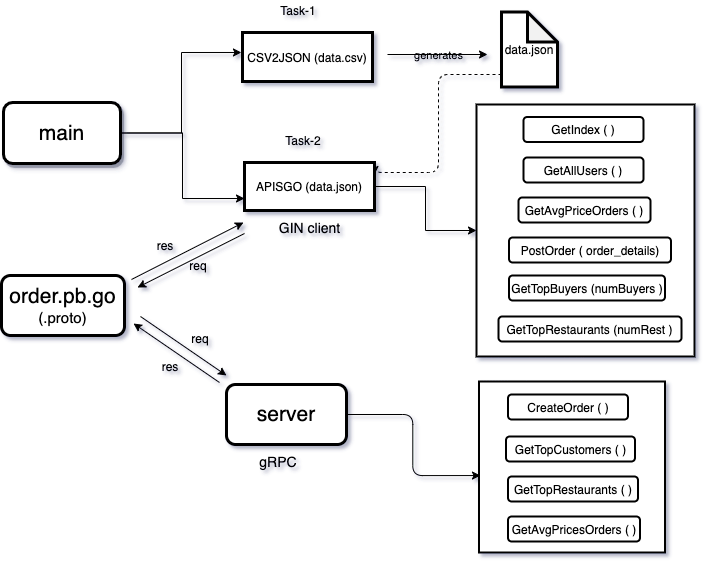
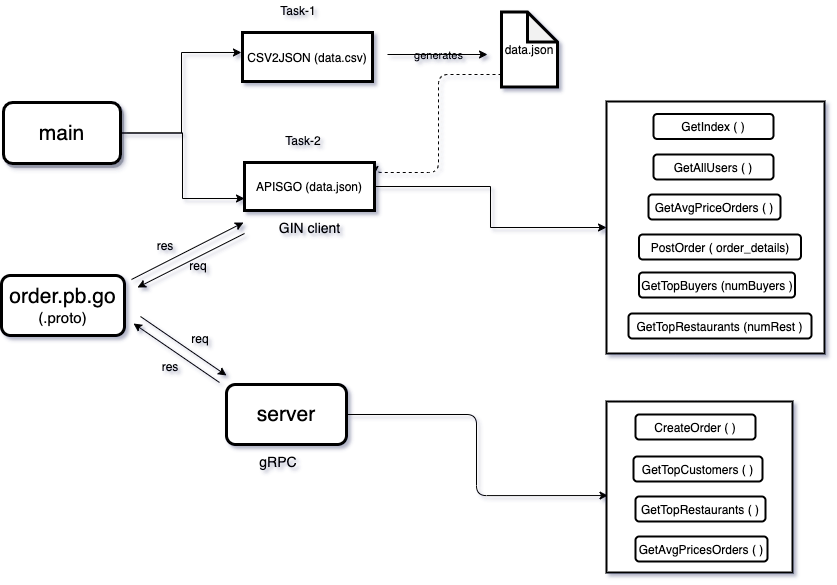
codeflow image

diff --git a/README.md b/README.md
@@ -3,7 +3,7 @@ repo for case study 1
 
 ## Lets have a walkthrough our project :-
 
-
+![Screenshot](assets/walkthrough.png)
 
 ### To run this project, follow the below steps :-
 1. Clone this repo.
